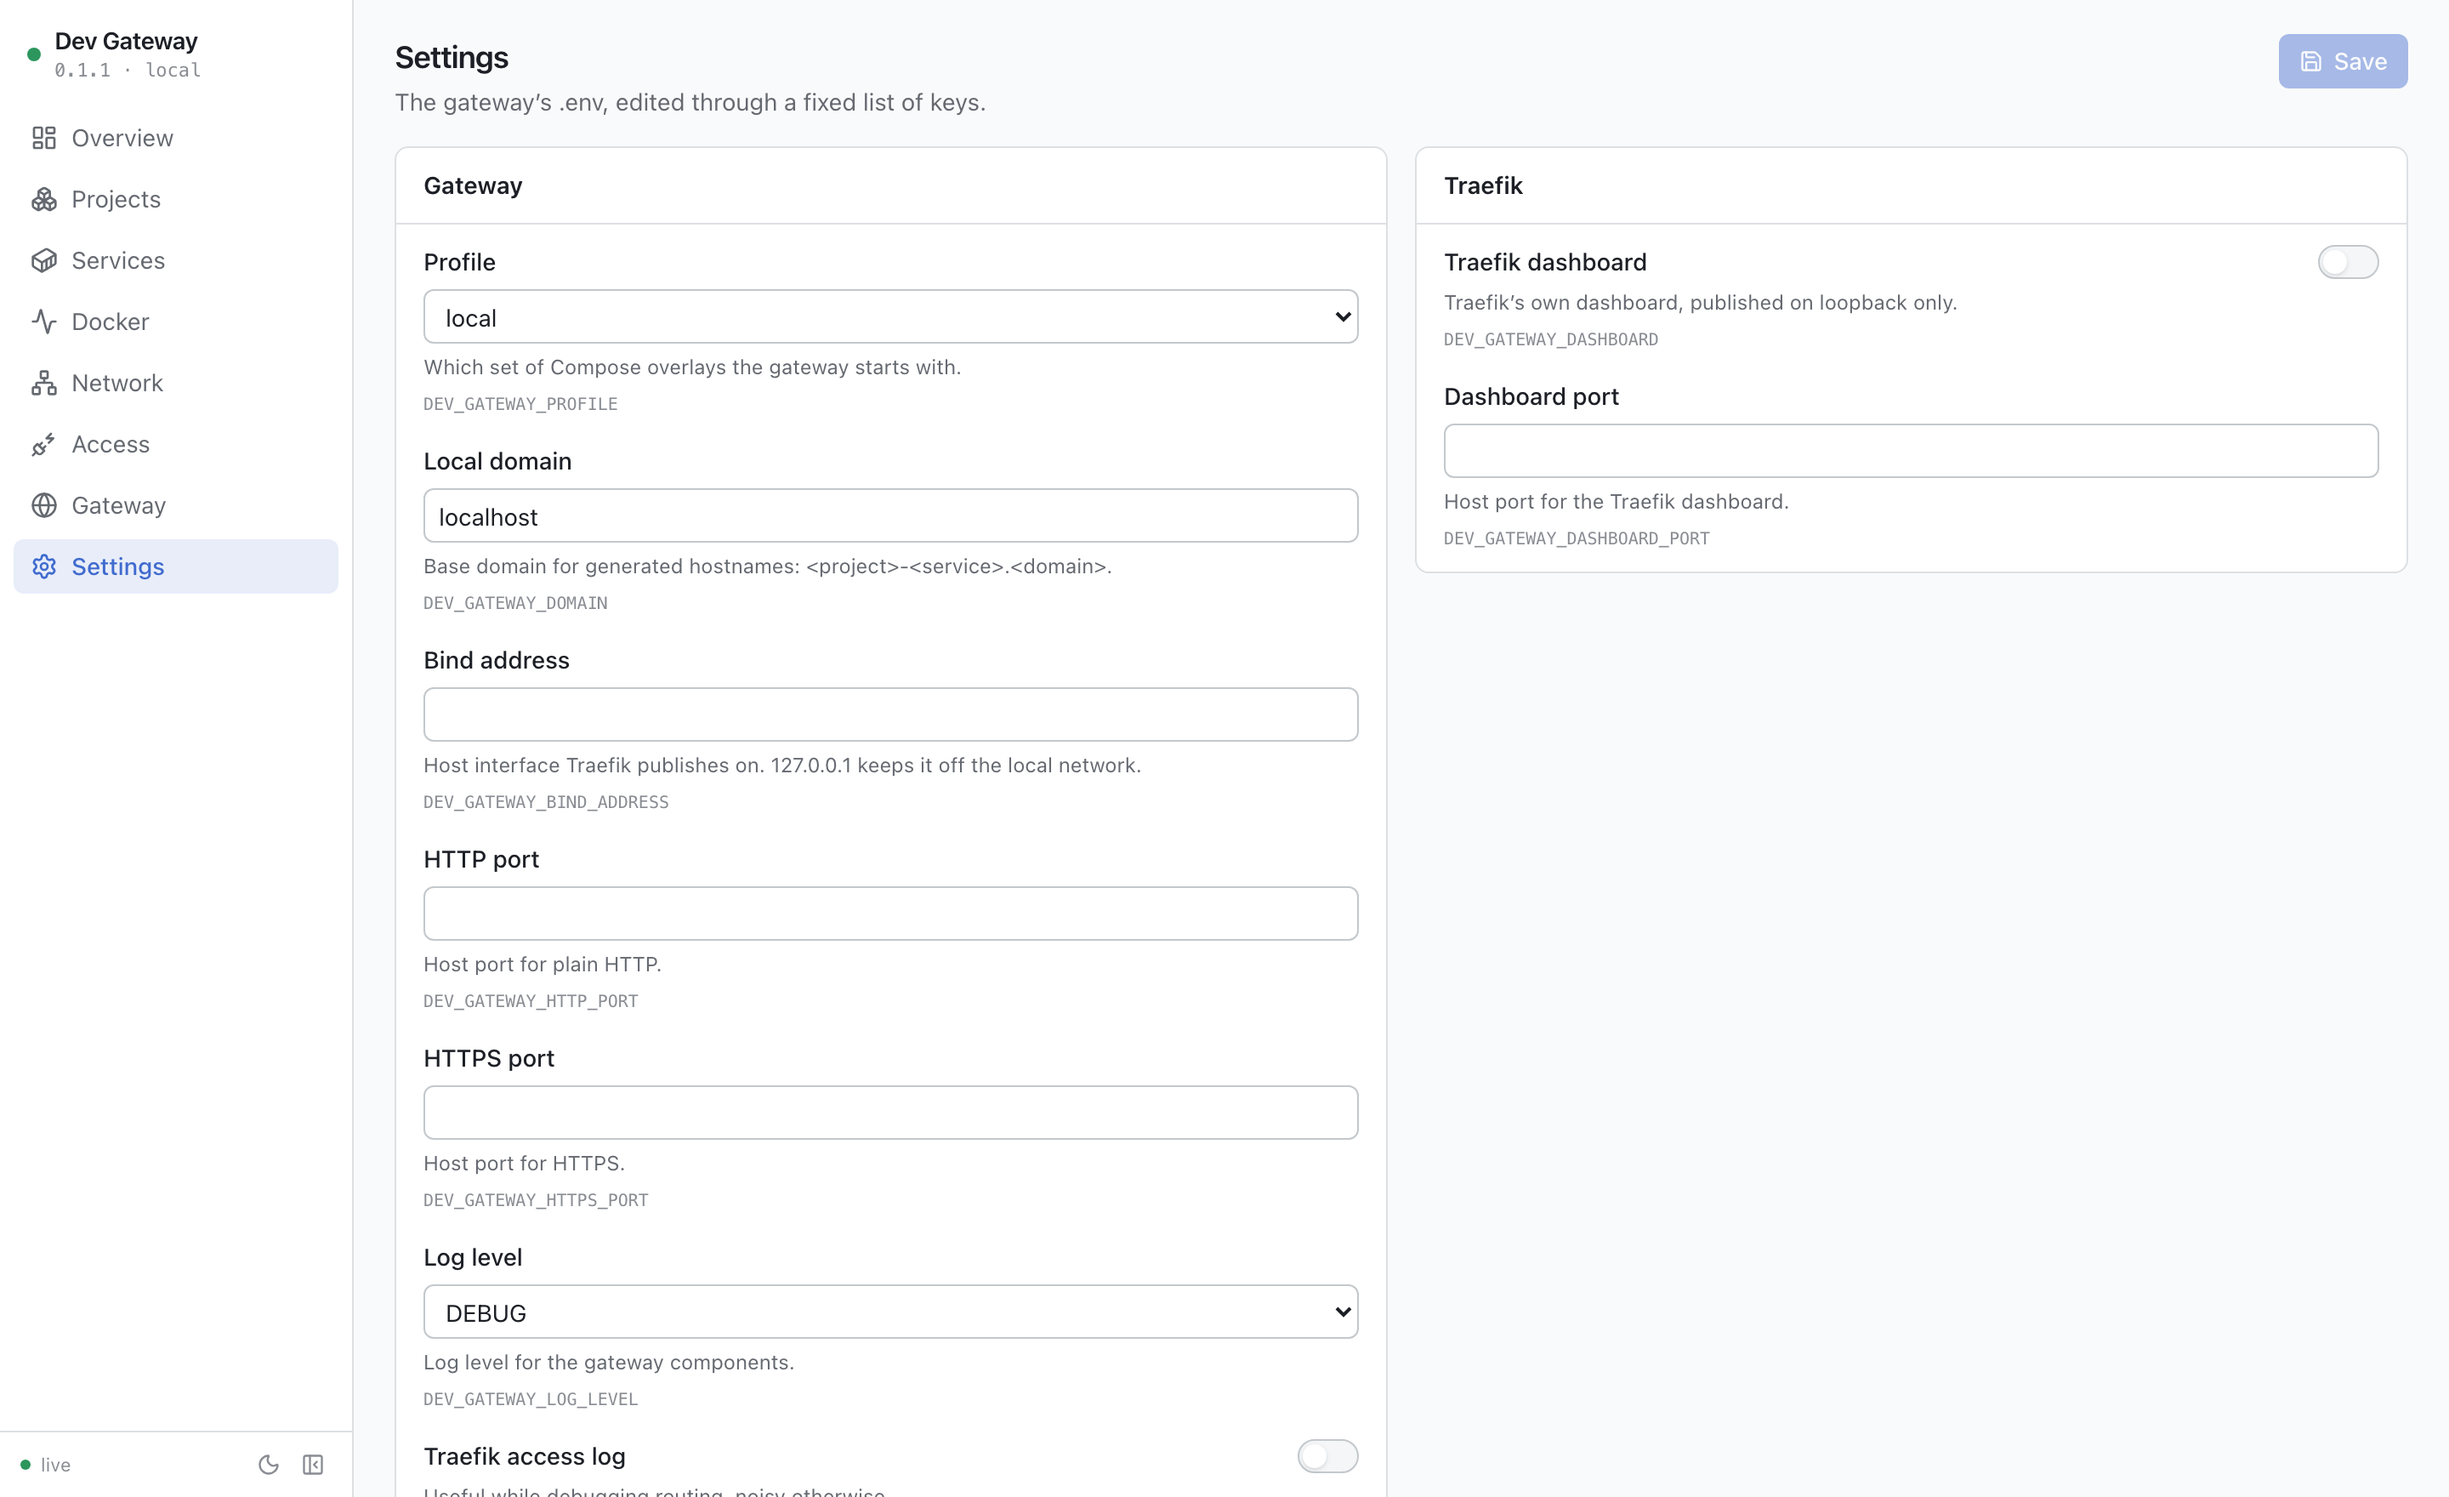
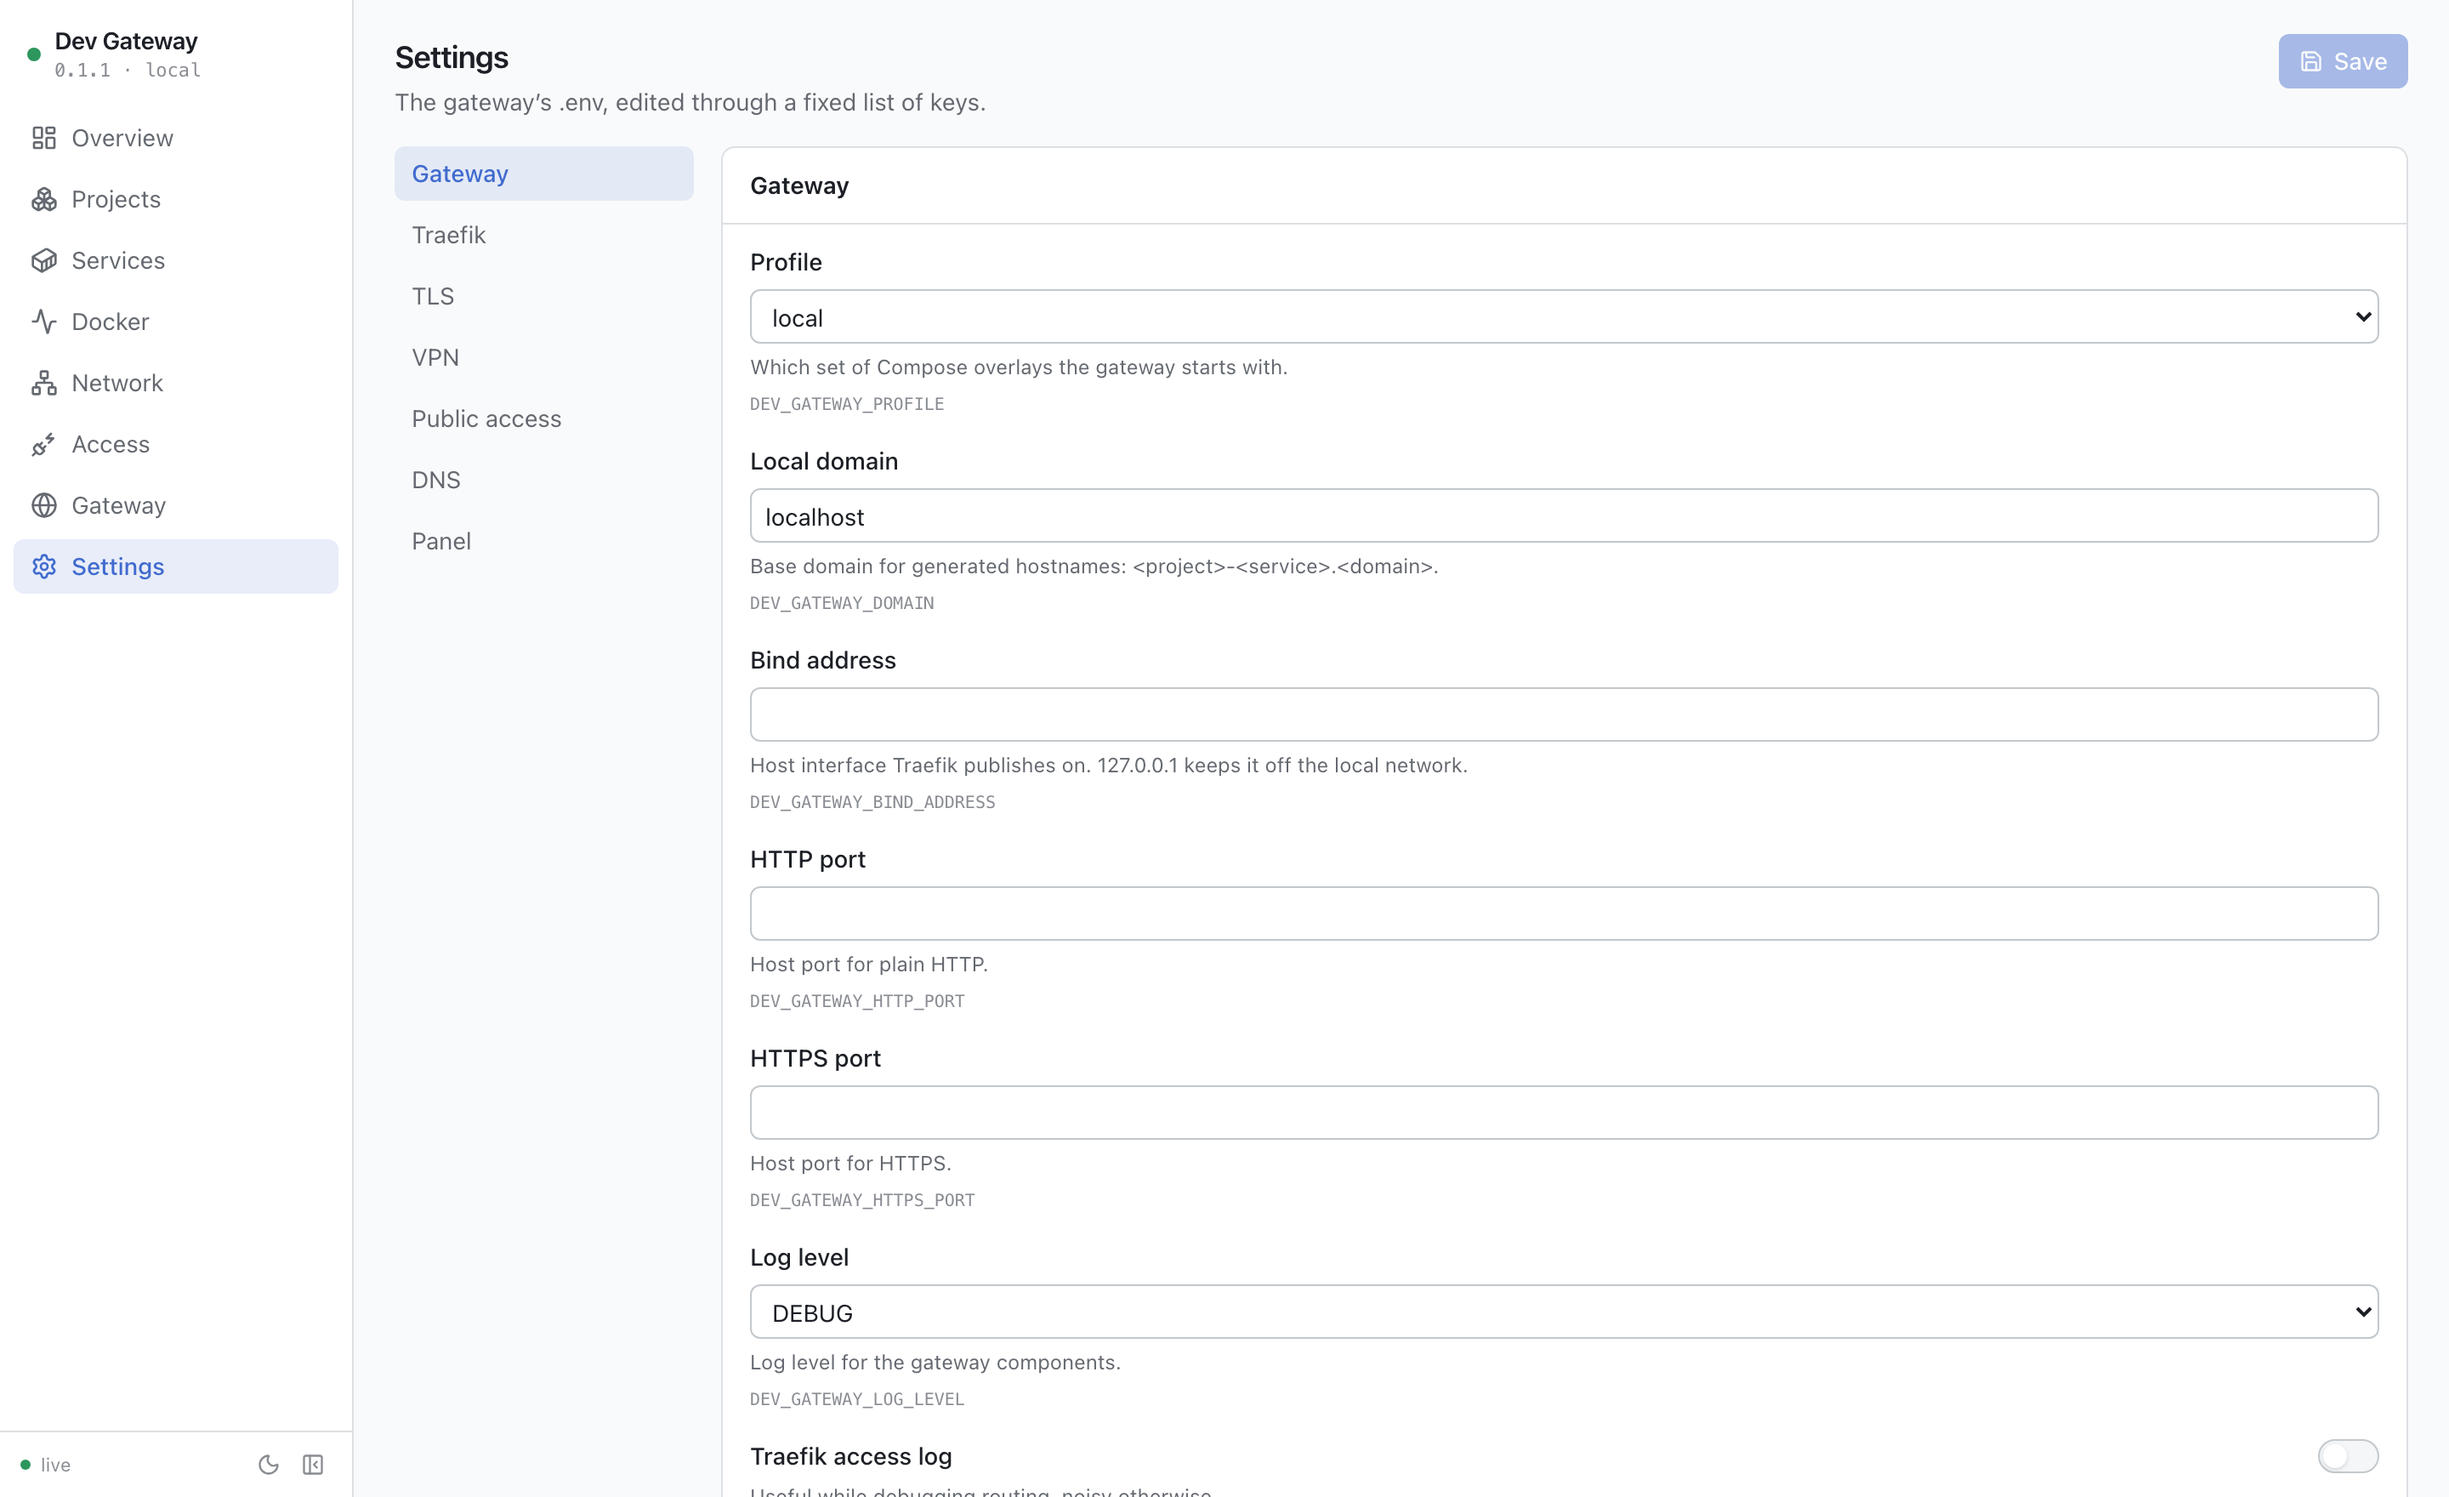
docs(ui): link settings groups directly

diff --git a/docs/web-ui.md b/docs/web-ui.md
@@ -527,10 +527,14 @@ cannot see truthfully. The panel says so and points at the command.
 
 The settings people actually change, from a fixed catalogue: domains, ports,
 bind address, profile, TLS and ACME, Tailscale, public access, DNS provider,
-and the panel's own options. A key that is not in the catalogue cannot be read
-or written through the API, whatever a request asks for.
+and the panel's own options. Each server-defined group has a stable deep link,
+such as `#/settings/tls` or `#/settings/public-access`. Moving between groups
+keeps one shared draft; badges identify unsaved work in another group and Save
+writes every changed key in one transaction. A key that is not in the
+catalogue cannot be read or written through the API, whatever a request asks
+for.
 
-![The Settings page: the gateway's .env grouped by topic, each field with the key it writes and what it means](../.github/images/panel-settings.png)
+![The Gateway settings group: a stable group navigation beside each field, the key it writes and what it means](../.github/images/panel-settings.png)
 
 ### Light and dark
 

diff --git a/docs/tailscale.md b/docs/tailscale.md
@@ -1,5 +1,8 @@
 # Tailscale
 
+Open the gateway's [VPN settings](http://127.0.0.1:8081/#/settings/vpn) to edit
+the managed Tailscale keys from the panel.
+
 Tailscale is how the gateway becomes reachable without becoming public. The
 VPS keeps 80 and 443 closed to the internet, and the gateway answers on the
 node's tailnet address.

diff --git a/docs/public-access.md b/docs/public-access.md
@@ -1,5 +1,9 @@
 # Public access
 
+Open the gateway's
+[Public access settings](http://127.0.0.1:8081/#/settings/public-access) to edit
+the managed keys from the panel.
+
 Disabled by default. Turning it on is the most consequential thing the gateway
 can do, so it is explicit, it shows you exactly what changes, and it asks.
 

diff --git a/docs/cloudflare.md b/docs/cloudflare.md
@@ -1,5 +1,8 @@
 # Cloudflare (optional)
 
+Open the gateway's [DNS settings](http://127.0.0.1:8081/#/settings/dns) to edit
+the managed Cloudflare keys from the panel.
+
 Cloudflare is the **reference** DNS provider, not a requirement. Everything the
 gateway does works with any provider; Cloudflare just gets automation.
 

diff --git a/docs/dns-and-tls.md b/docs/dns-and-tls.md
@@ -1,5 +1,9 @@
 # DNS and TLS
 
+The panel opens these controls directly at
+[TLS settings](http://127.0.0.1:8081/#/settings/tls) and
+[DNS settings](http://127.0.0.1:8081/#/settings/dns).
+
 ## Local: neither is needed
 
 `*.localhost` resolves to loopback by [RFC 6761](https://www.rfc-editor.org/rfc/rfc6761)
